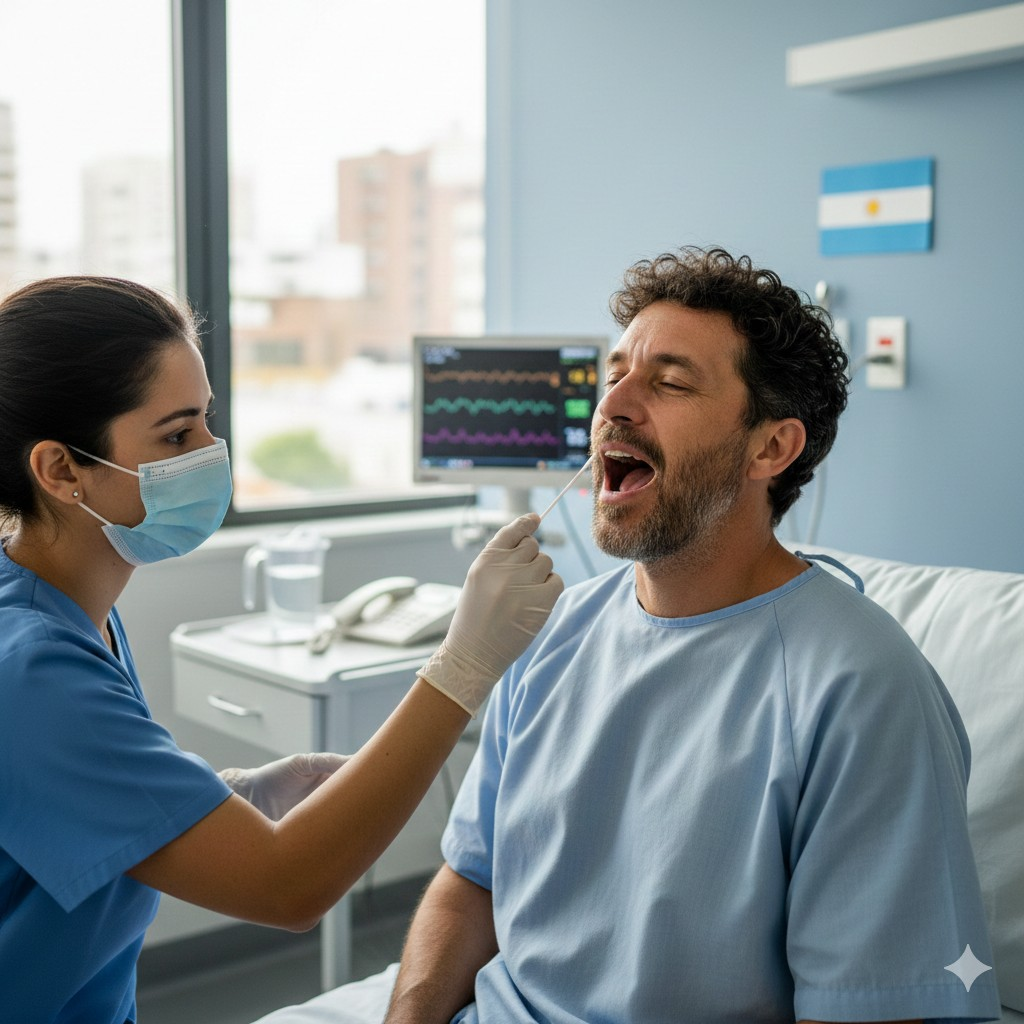
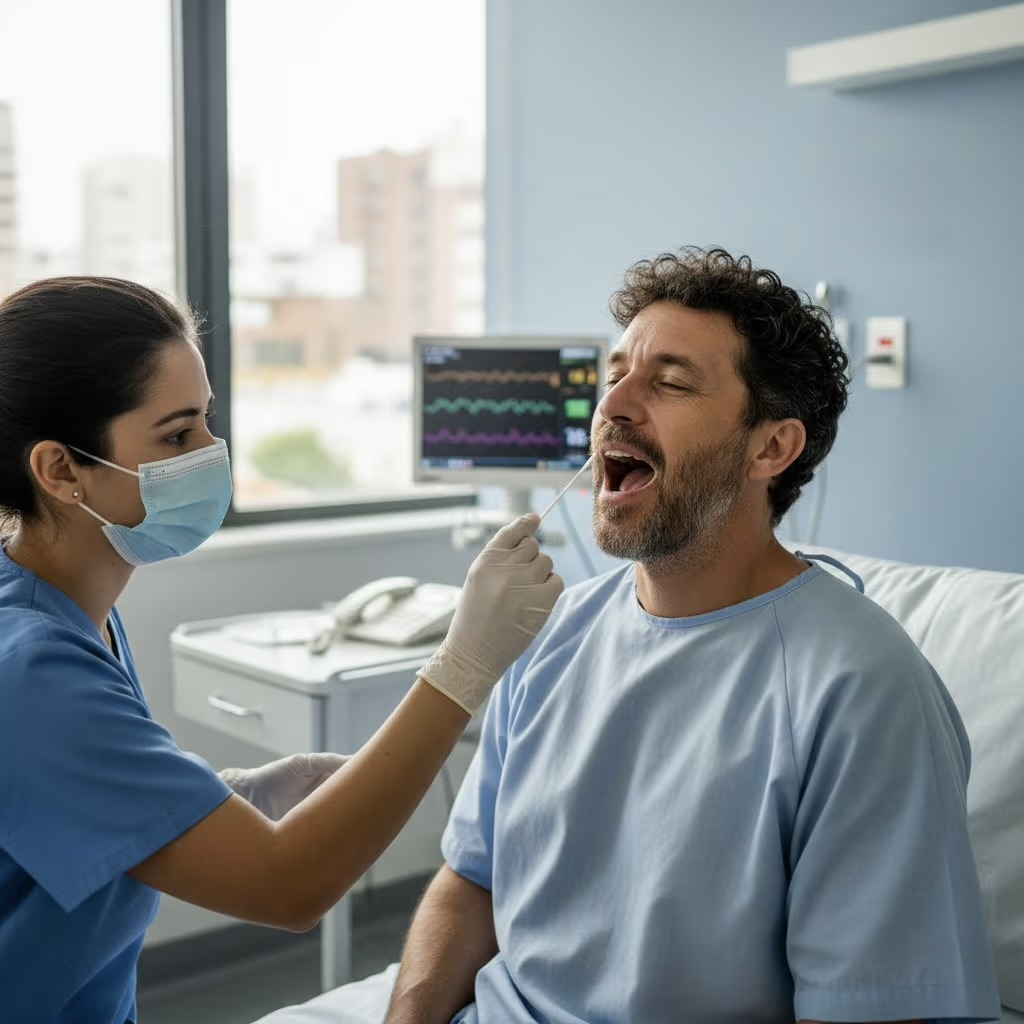
imagenes

Changed region(s): [[0.7812, 0.1562, 0.9375, 0.25], [0.2188, 0.5, 0.3438, 0.625], [0.9062, 0.9062, 0.9688, 0.9688]]

diff --git a/components/ar/HowItWorksAr.tsx b/components/ar/HowItWorksAr.tsx
@@ -17,7 +17,8 @@ const steps = [
     title: 'Contacto inicial',
     description: 'Comunicate con nosotros por WhatsApp o completá nuestro formulario web. Nos comunicaremos contigo lo más pronto posible para resolver todas tus dudas y coordinar el siguiente paso de forma personalizada.',
     image: '/imgs/contacto-inicial-ar.png',
-    imageAlt: 'Contacto inicial para prueba de paternidad prenatal - Formulario y WhatsApp disponible 24/7',
+    imageAlt:
+      'Asesora en llamada telefónica para consultas de prueba de paternidad prenatal - atención personalizada',
     color: 'from-blue-500 to-cyan-500',
     position: 'left' // imagen a la izquierda
   },
@@ -27,7 +28,8 @@ const steps = [
     title: 'Toma de muestra',
     description: 'Realizamos una simple extracción de sangre de la madre y un hisopo bucal del posible padre. Es un proceso rápido, sin dolor y completamente seguro para el bebé en desarrollo.',
     image: '/imgs/isopado-ar.png',
-    imageAlt: 'Toma de muestra para prueba paternidad prenatal - Extracción de sangre materna e hisopado del padre',
+    imageAlt:
+      'Hisopado bucal para prueba de paternidad prenatal - profesional de salud tomando muestra en entorno clínico',
     color: 'from-purple-500 to-pink-500',
     position: 'right' // imagen a la derecha
   },